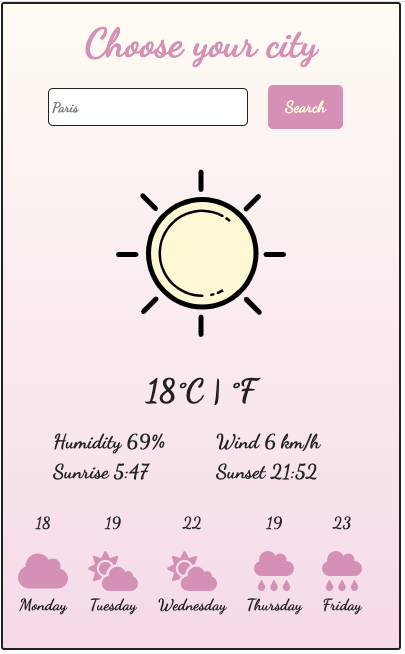
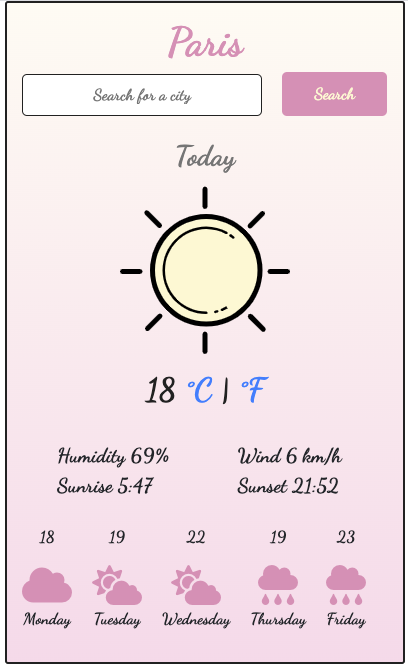
resultOf4week

diff --git a/src/script.js b/src/script.js
@@ -1,37 +1,66 @@
-let weather = {
-  paris: {
-    temp: 19.7,
-    humidity: 80,
-  },
-  tokyo: {
-    temp: 17.3,
-    humidity: 50,
-  },
-  lisbon: {
-    temp: 30.2,
-    humidity: 20,
-  },
-  "san francisco": {
-    temp: 20.9,
-    humidity: 100,
-  },
-  moscow: {
-    temp: -5,
-    humidity: 20,
-  },
-};
-
-let city = prompt("Enter a city:");
-city = city.toLowerCase();
-if (weather[city] !== undefined) {
-  let tempeture = weather[city].temp;
-  let celsiusTempeture = Math.round(tempeture);
-  let fahrenheitTemperature = Math.round((tempeture * 9) / 5 + 32);
-  let humidity = weather[city].humidity;
-  alert(
-    `It is currently ${celsiusTempeture}°C (${fahrenheitTemperature}°F) in ${city} with a humidity of ${humidity}%`
-  );
-} else {
-  alert(`Sorry we don't know the weather for this city, 
-try going to the https://www.google.com/search?q=google+weather+${city}`);
+function search(event) {
+  event.preventDefault();
+  let searchInput = document.querySelector("#search-text-input");
+  let h1 = document.querySelector("h1");
+  if (searchInput.value) {
+    h1.innerHTML = `${searchInput.value}`;
+  } else {
+    alert("Please, type something 🙏🏻");
+  }
+  form.reset();
 }
+
+function clickFahrenheit() {
+  let degree = document.querySelector("#degree");
+  degree.innerHTML = `64`;
+}
+
+function clickCelsius() {
+  let degree = document.querySelector("#degree");
+  degree.innerHTML = `18`;
+}
+
+let now = new Date();
+let h3 = document.querySelector("h3");
+let date = now.getDate();
+let hours = now.getHours();
+let minutes = ("0" + now.getMinutes()).slice(-2);
+let year = now.getFullYear();
+let milliSeconds = now.getMilliseconds();
+let days = [
+  "Sunday",
+  "Monday",
+  "Tuesday",
+  "Wednesday",
+  "Thursday",
+  "Friday",
+  "Saturday",
+];
+let day = days[now.getDay()];
+
+let months = [
+  "January",
+  "February",
+  "March",
+  "April",
+  "May",
+  "June",
+  "July",
+  "August",
+  "September",
+  "October",
+  "November",
+  "December",
+];
+let month = months[now.getMonth()];
+
+h3.innerHTML = `${hours}:${minutes} ${day}, ${month} ${date}`;
+
+let form = document.querySelector("#search-form");
+form.addEventListener("submit", search);
+
+let degreeFahrenheit = document.querySelector("#fahrenheit");
+degreeFahrenheit.addEventListener("click", clickFahrenheit);
+
+let degreeCelsius = document.querySelector("#celsius");
+degreeCelsius.addEventListener("click", clickCelsius);
